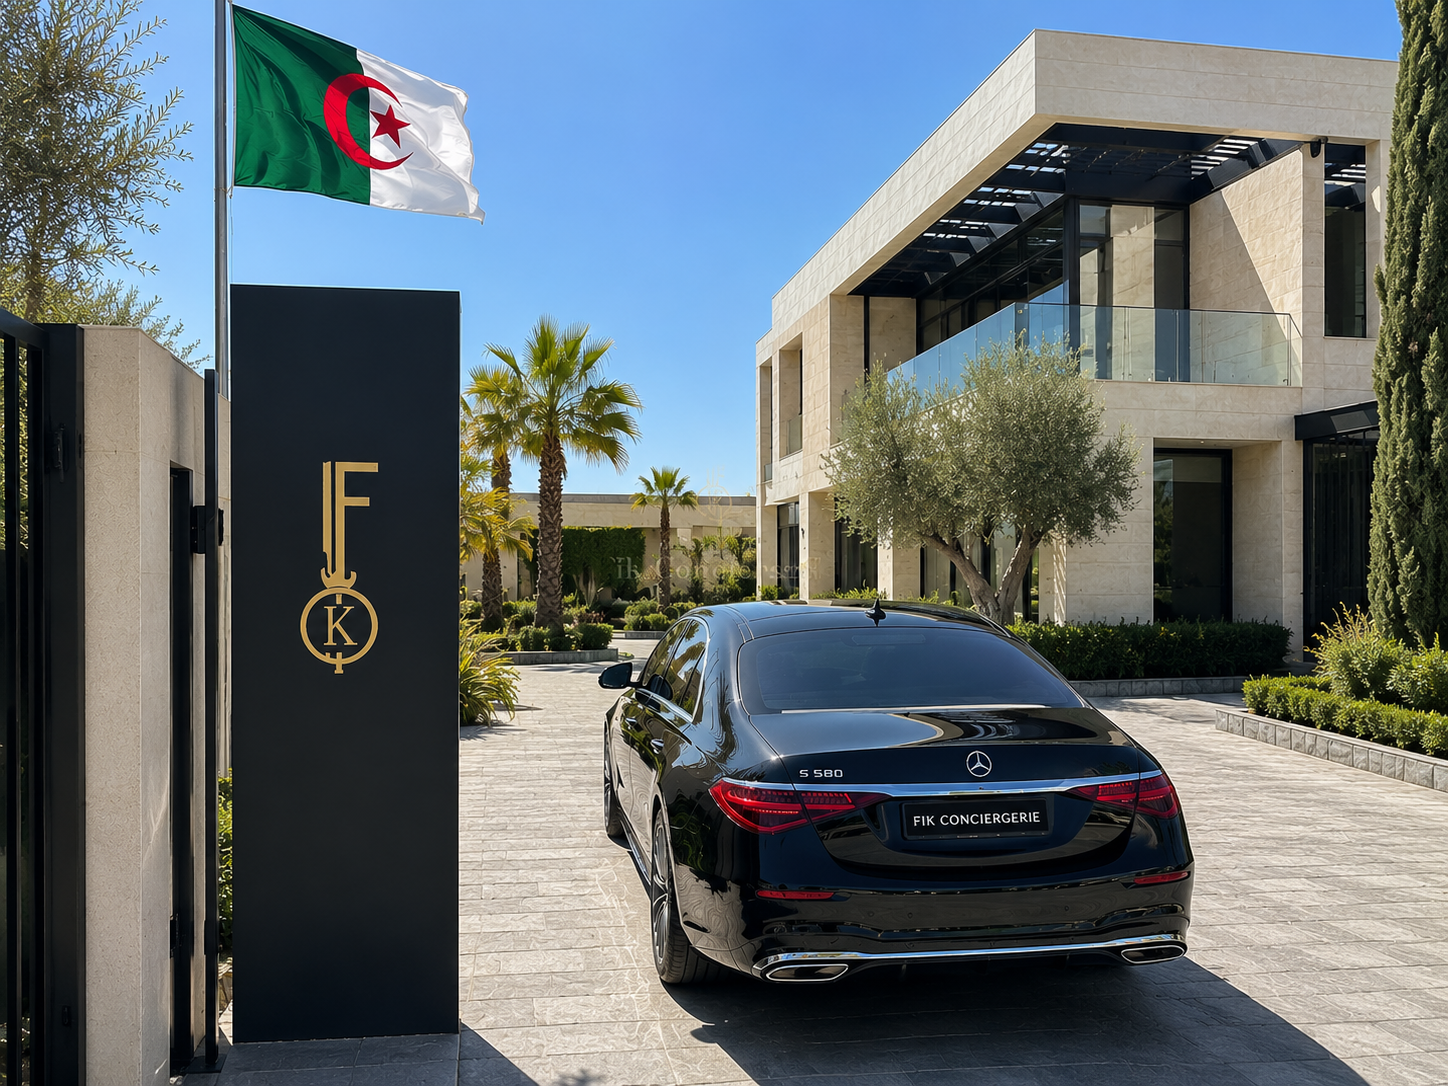
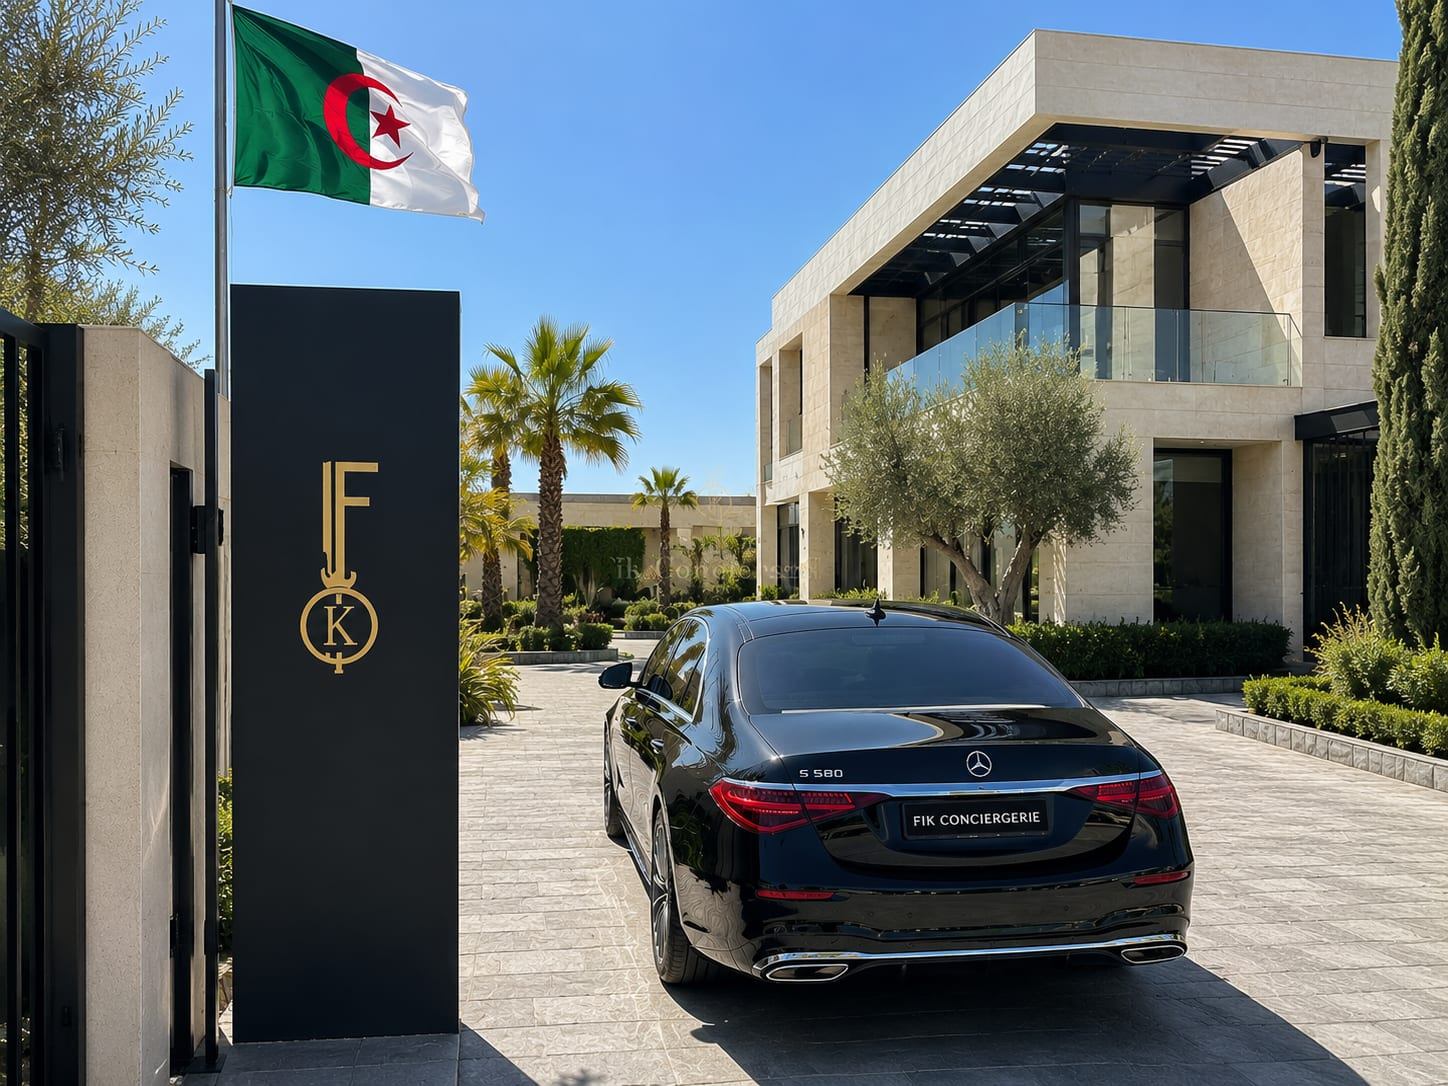
perf+ux: compresse photos hero (2.5Mo→257Ko, 2.4Mo→244Ko) + bandeau réassurance réservation
- hero-home.jpg & entreprises-hero.jpg recompressés JPEG q82 max 1920px (~90% plus léger).
- /reservation : bandeau sans caution · 7j/7 · livraison · WhatsApp (FR/AR/EN).

Changed region(s): [[0.9012, 0.5773, 0.9323, 0.6077]]

diff --git a/pages/reservation.js b/pages/reservation.js
@@ -404,10 +404,24 @@ export default function ReservationPage({ cars: initialCars }) {
           <div className="max-w-lg mx-auto">
 
             {/* Header */}
-            <div className="text-center mb-8">
+            <div className="text-center mb-6">
               <span className="section-badge mb-4 inline-block">{t('res.badge')}</span>
               <h1 className="font-display text-3xl md:text-4xl font-bold text-white mb-2">{t('res.title')}</h1>
               <p className="text-white/35 text-sm">{t('res.subtitle')}</p>
+            </div>
+
+            {/* Bandeau réassurance */}
+            <div className="flex flex-wrap items-center justify-center gap-x-4 gap-y-2 mb-8">
+              {[
+                ar ? 'بدون كفالة' : lang === 'en' ? 'No deposit' : 'Sans caution',
+                ar ? '7/7' : lang === 'en' ? '7/7' : '7j/7',
+                ar ? 'توصيل واستلام' : lang === 'en' ? 'Delivery & return' : 'Livraison & retour',
+                ar ? 'ردّ سريع واتساب' : lang === 'en' ? 'Fast WhatsApp reply' : 'Réponse rapide WhatsApp',
+              ].map((txt) => (
+                <span key={txt} className="inline-flex items-center gap-1.5 text-white/45 text-xs">
+                  <Check size={13} className="text-gold-400" />{txt}
+                </span>
+              ))}
             </div>
 
             {/* Step pills */}